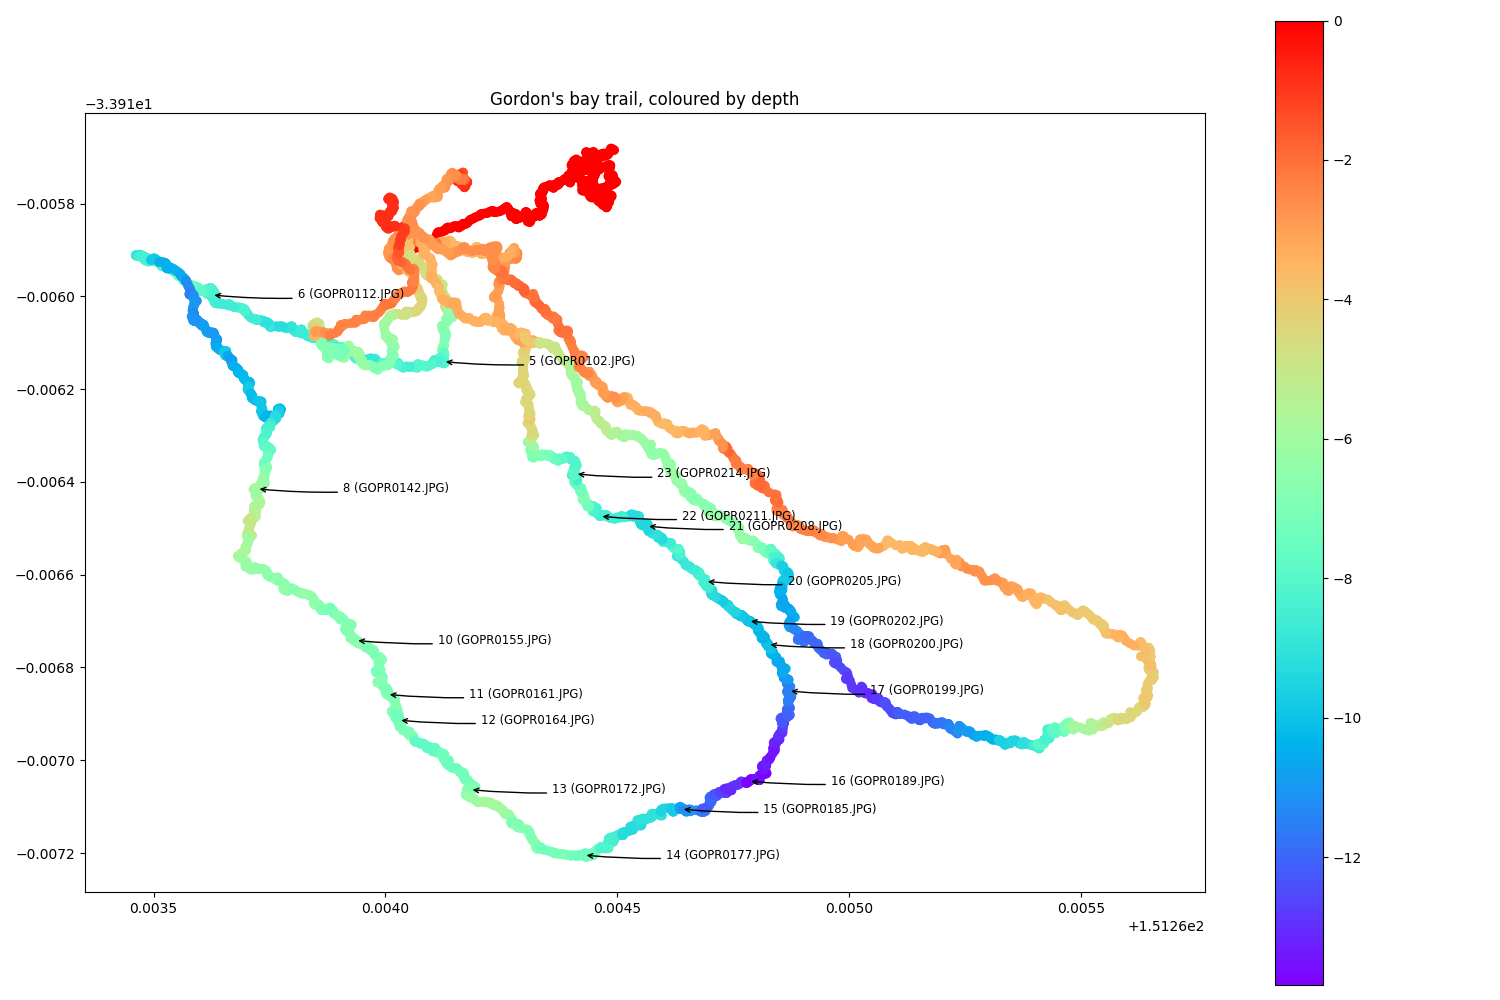
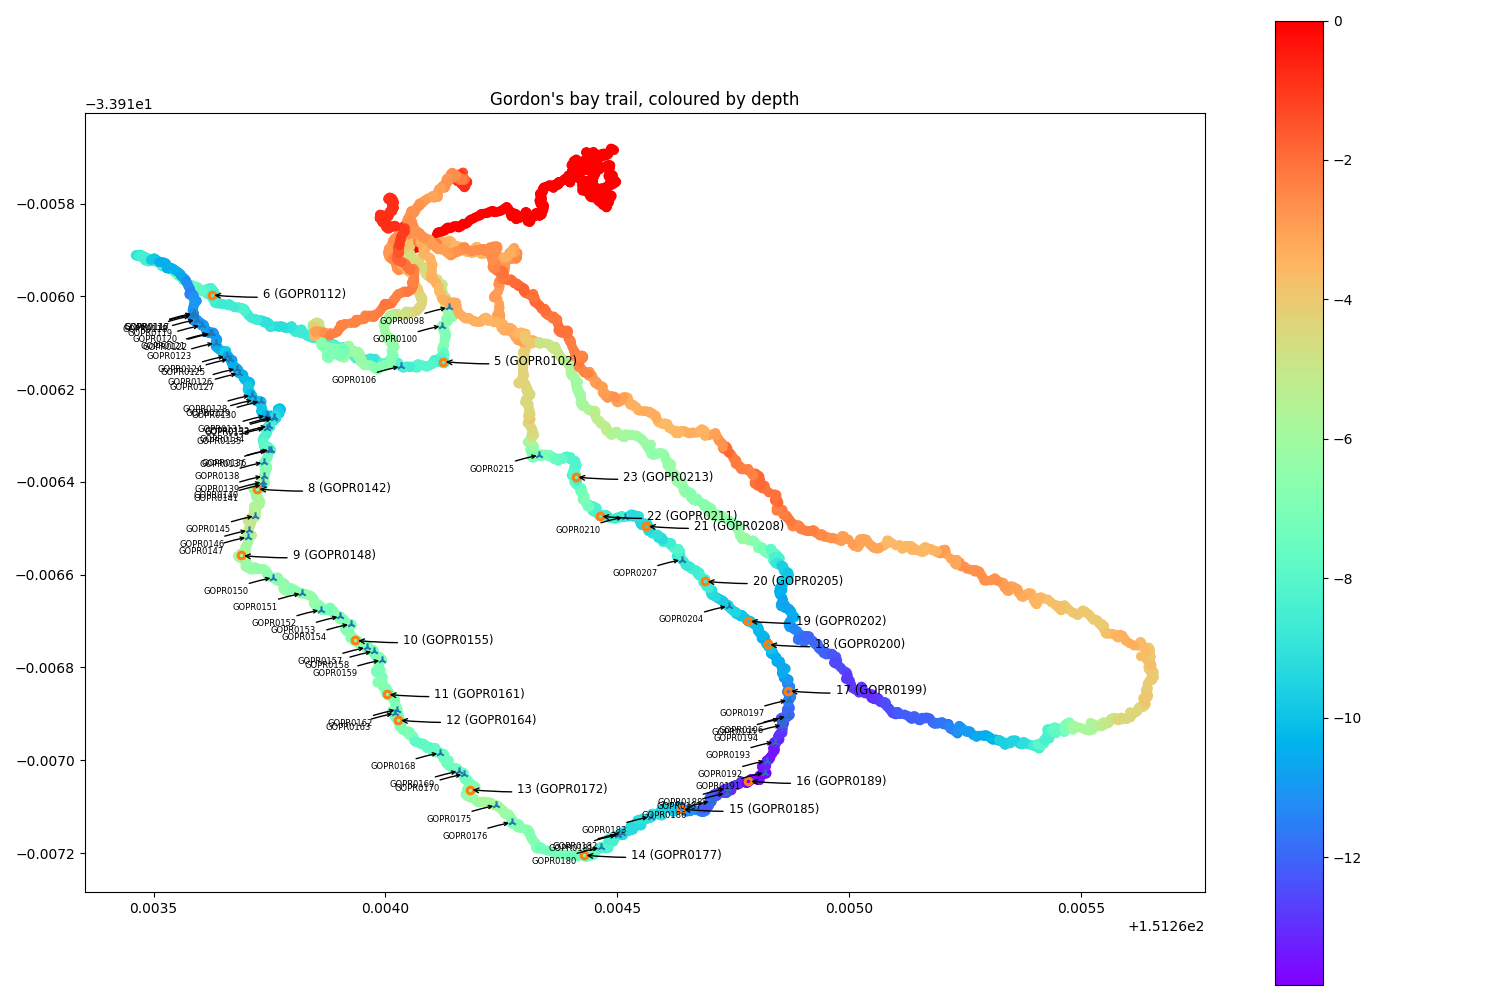
got as much done as possible. Closes #3
This is going to need me to number the intermediate markers so that I can be sure which photo

diff --git a/mapper.py b/mapper.py
@@ -164,14 +164,14 @@ all_df["filename"].ffill(inplace=True, limit=10)
 all_df["geometry"].ffill(inplace=True)
 all_df["description"].ffill(inplace=True)
 all_df.drop(["lat", "lon"], axis=1, inplace=True, errors="ignore")
-all_df.head(20)
+all_df.head()
 # %%
 all_gdf = gp.GeoDataFrame(all_df)
 
 
 # %%
 def make_marker_text(row):
-    filename = row.filename
+    filename = row.filename.replace(".JPG", "")
     if row.marker_type == "numbered":
         return f"""{row.marker_number if row.marker_number else "-"} ({filename})"""
     else:
@@ -179,7 +179,11 @@ def make_marker_text(row):
 
 
 markers_df = all_gdf[(all_gdf.source == "photo") & (all_gdf.marker_type == "numbered")]
+intermediate_df = all_gdf[
+    (all_gdf.source == "photo") & (all_gdf.marker_type == "intermediate")
+]
 markers_df["marker_text"] = markers_df.apply(make_marker_text, axis=1)
+# %%
 uni_marker_df = markers_df.groupby("marker_number").apply(
     lambda grp: pd.Series(
         {
@@ -188,17 +192,35 @@ uni_marker_df = markers_df.groupby("marker_number").apply(
         }
     )
 )
+# %%
+
 ax = all_gdf.plot(column="depth", cmap="rainbow", figsize=(15, 10), legend=True)
+intermediate_df.plot(ax=ax, marker="2")
+uni_marker_df.plot(ax=ax, marker="$\circ$")
 plt.title("Gordon's bay trail, coloured by depth")
 uni_marker_df.apply(
     lambda row: ax.annotate(
         text=row.marker_text,
         xy=[row.geometry.x, row.geometry.y],
-        xytext=[row.geometry.x + 0.0003, row.geometry.y],
+        xytext=[row.geometry.x + 0.0002, row.geometry.y],
         xycoords="data",
         size="small",
         color="k",
         ha="center",
+        va="center",
+        arrowprops=dict(arrowstyle="->", connectionstyle="arc3,rad=-0.05", color="k"),
+    ),
+    axis=1,
+)
+intermediate_df.apply(
+    lambda row: ax.annotate(
+        text=row.filename.replace(".JPG", ""),
+        xy=[row.geometry.x, row.geometry.y],
+        xytext=[row.geometry.x - 0.00015, row.geometry.y - 0.00003],
+        xycoords="data",
+        size=6,
+        color="k",
+        ha="left",
         va="center",
         arrowprops=dict(arrowstyle="->", connectionstyle="arc3,rad=-0.05", color="k"),
     ),

diff --git a/photo_meta.py b/photo_meta.py
@@ -23,7 +23,7 @@ photo_meta = [
     {
         "dt": datetime.datetime(2024, 3, 8, 9, 34, 48),
         "filename": "GOPR0101.JPG",
-        "marker_type": "intermediate",
+        "marker_type": "",
         "marker_number": "",
     },
     {
@@ -41,7 +41,7 @@ photo_meta = [
     {
         "dt": datetime.datetime(2024, 3, 8, 9, 35, 19),
         "filename": "GOPR0104.JPG",
-        "marker_type": "intermediate",
+        "marker_type": "",
         "marker_number": "",
     },
     {
@@ -305,8 +305,8 @@ photo_meta = [
     {
         "dt": datetime.datetime(2024, 3, 8, 9, 51, 38),
         "filename": "GOPR0148.JPG",
-        "marker_type": "intermediate",
-        "marker_number": "",
+        "marker_type": "numbered",
+        "marker_number": 9,
     },
     {
         "dt": datetime.datetime(2024, 3, 8, 9, 51, 49),
@@ -377,7 +377,7 @@ photo_meta = [
     {
         "dt": datetime.datetime(2024, 3, 8, 9, 56, 2),
         "filename": "GOPR0160.JPG",
-        "marker_type": "intermediate",
+        "marker_type": "",
         "marker_number": "",
     },
     {
@@ -521,7 +521,7 @@ photo_meta = [
     {
         "dt": datetime.datetime(2024, 3, 8, 10, 3, 45),
         "filename": "GOPR0184.JPG",
-        "marker_type": "intermediate",
+        "marker_type": "",
         "marker_number": "",
     },
     {
